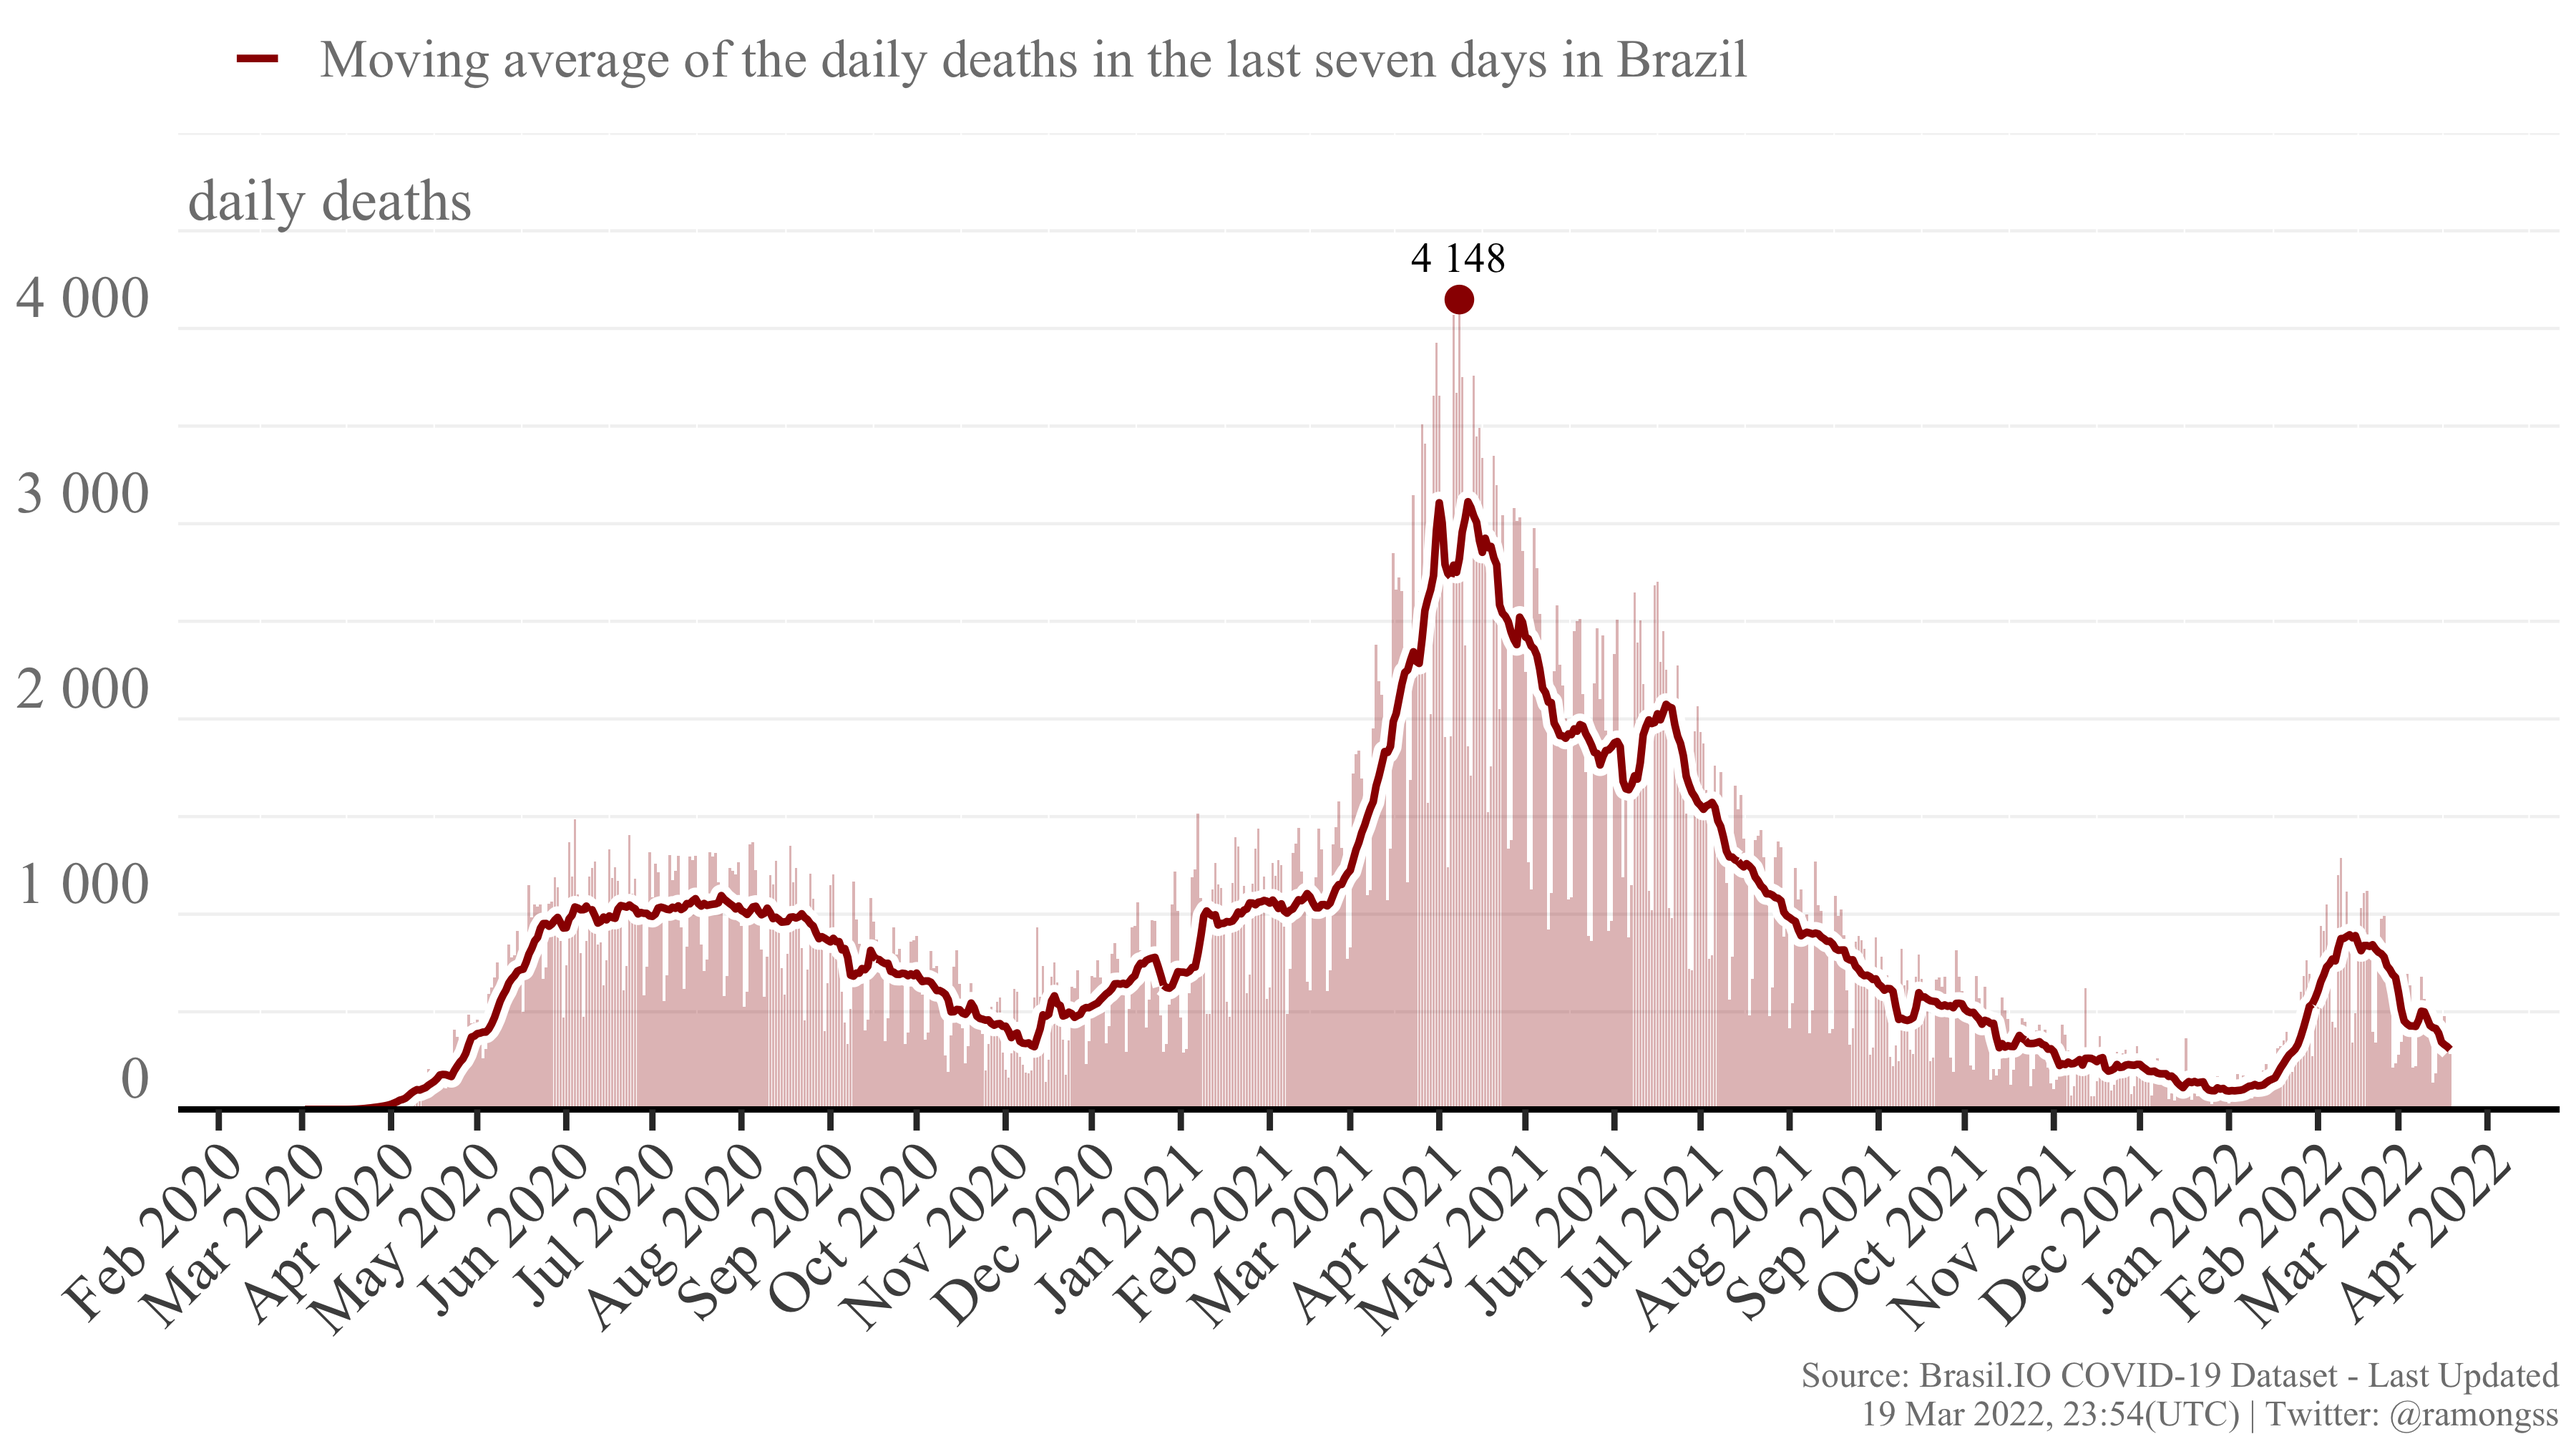
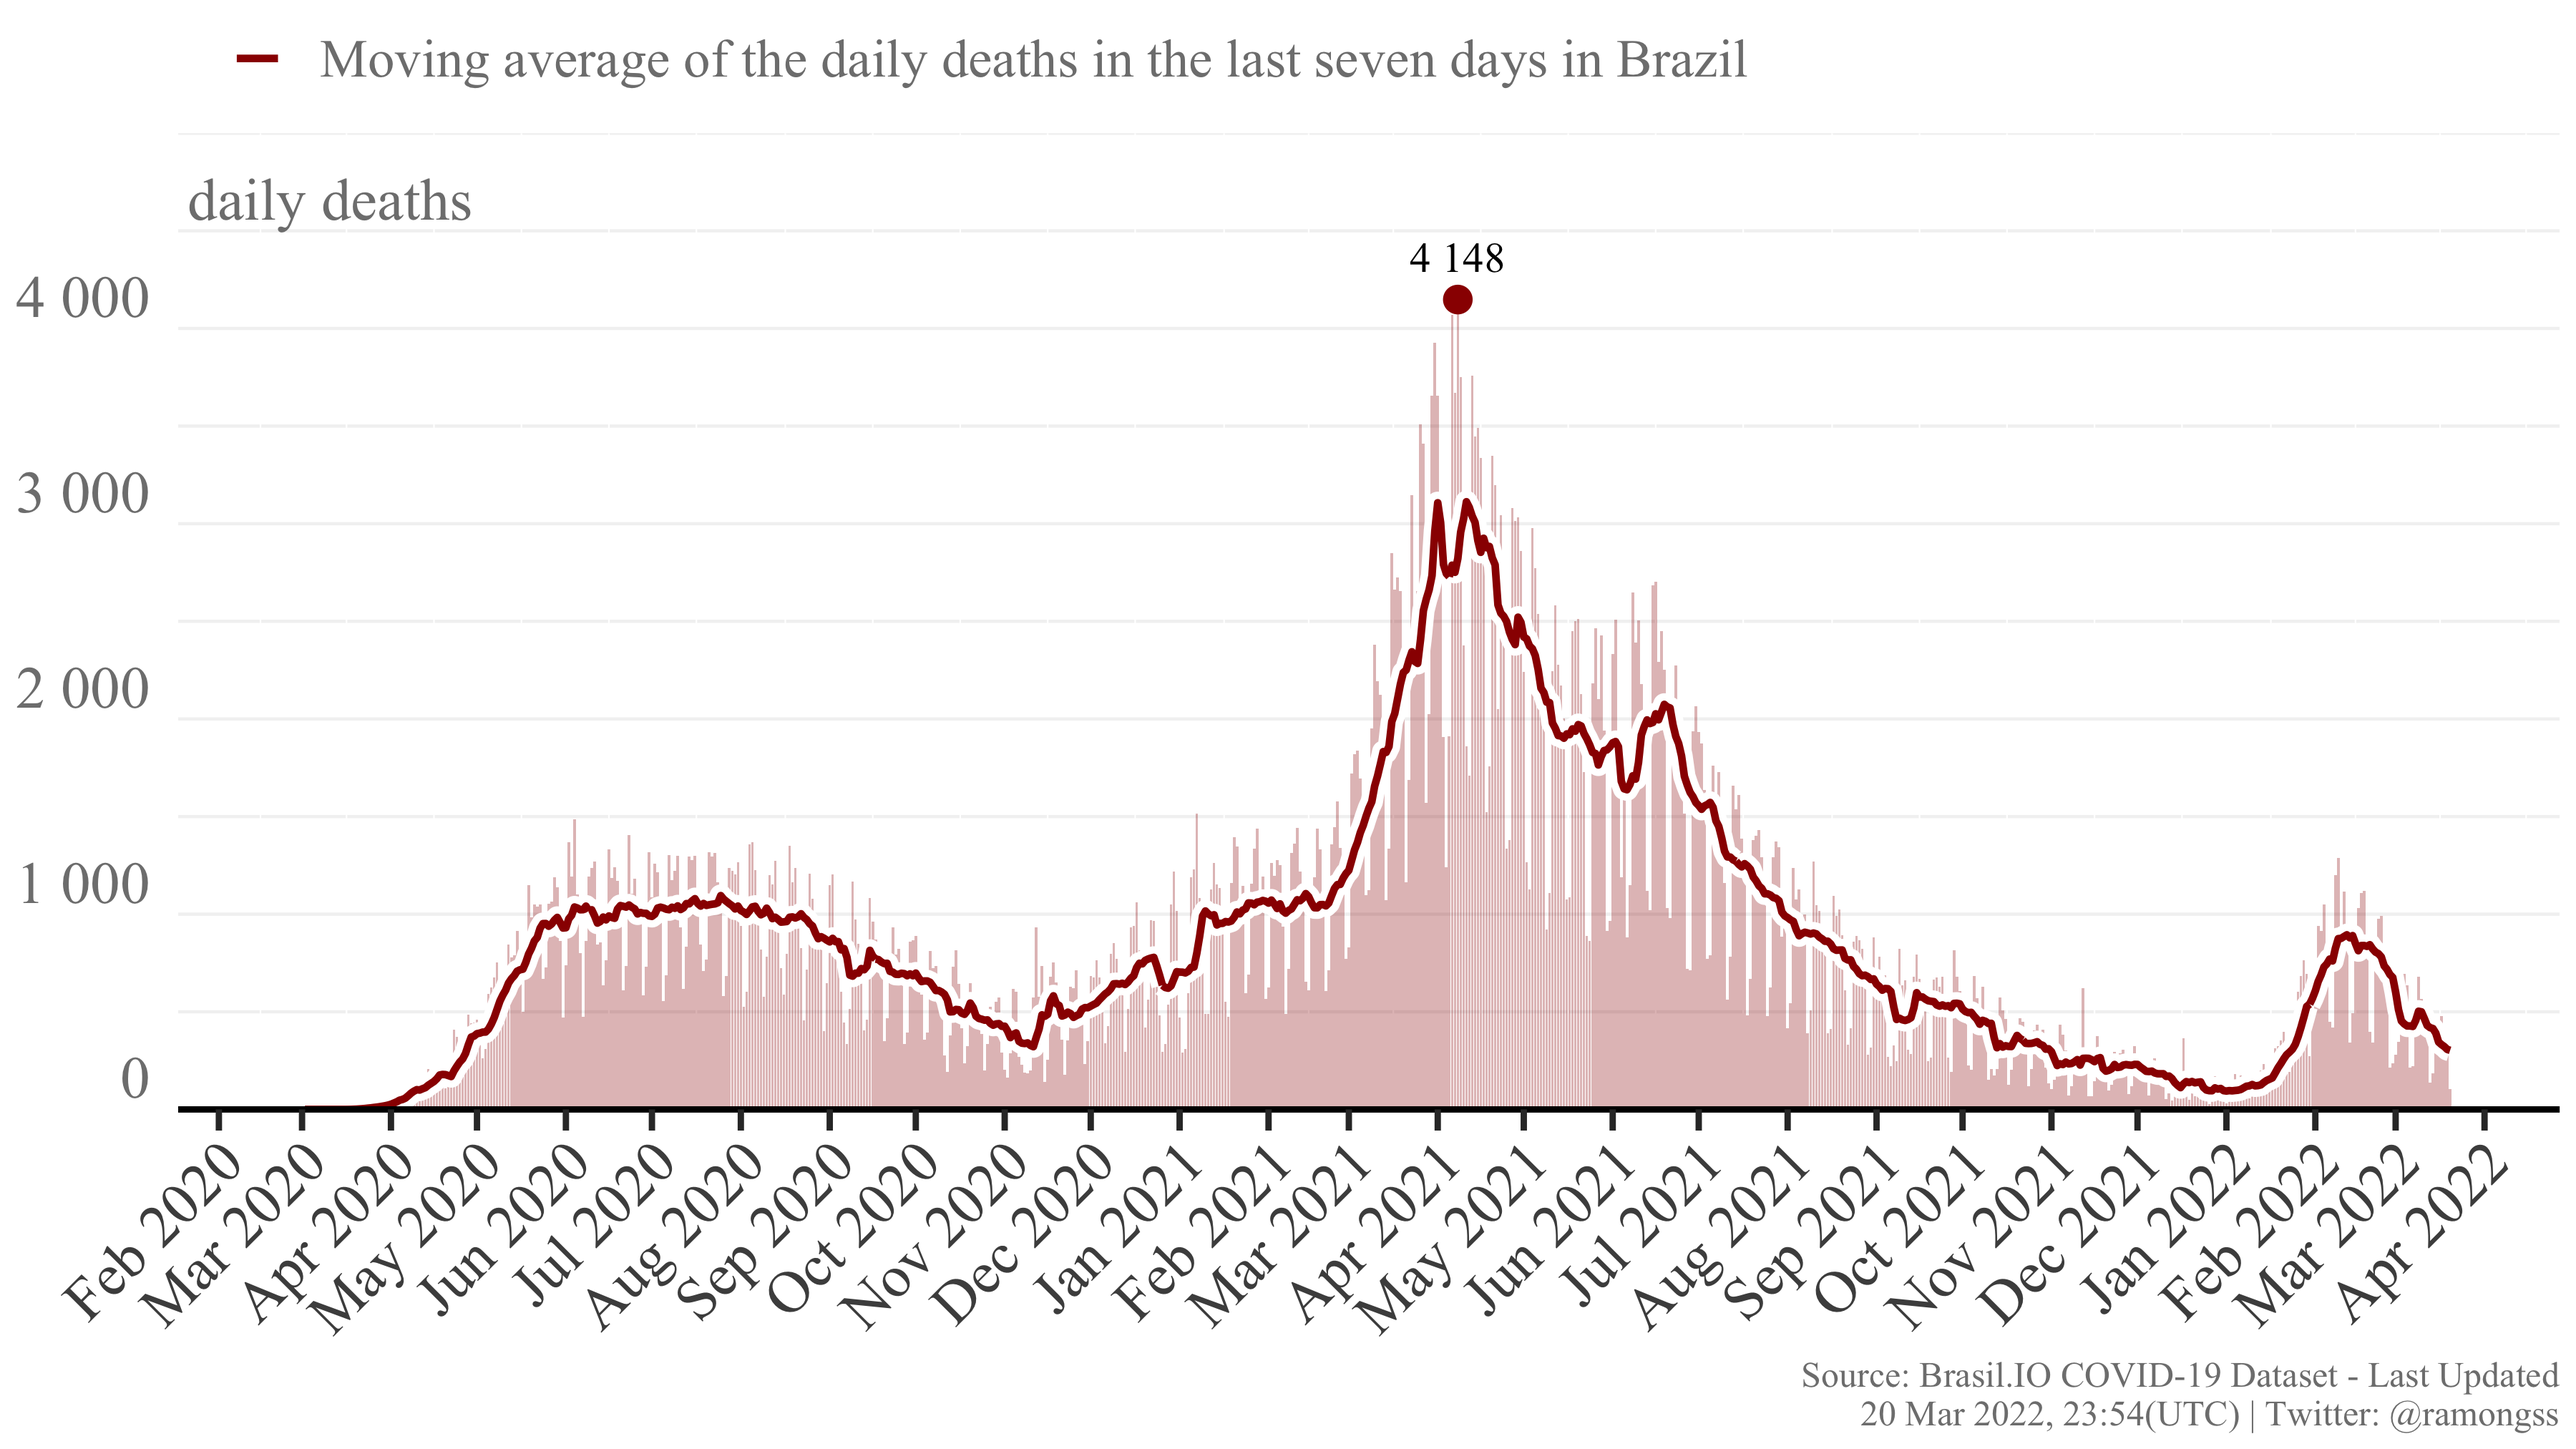
Re-build README.Rmd

diff --git a/README.md b/README.md
@@ -27,8 +27,8 @@ download_brasilio_table <- function(dataset = "covid19", table_name){
 
 ## COVID-19 Confirmed cases
 
-Currently, Brazil has a total of **29,624,435** confirmed cases at **19
-Mar, 2022**, with **37,314** new confirmed cases. The daily maximum
+Currently, Brazil has a total of **29,637,813** confirmed cases at **20
+Mar, 2022**, with **12,500** new confirmed cases. The daily maximum
 incidence was **285,451** confirmed cases at **03 Feb, 2022**. Here
 follows the Figure showing the confirmed case incidence as the bars, and
 the line as the moving average of the last 7 days.
@@ -37,8 +37,8 @@ the line as the moving average of the last 7 days.
 
 ## COVID-19 Deaths
 
-Currently, Brazil has a total of **657,389** deaths at **19 Mar, 2022**,
-with **283** new deaths. The daily maximum deaths incidence was
+Currently, Brazil has a total of **657,495** deaths at **20 Mar, 2022**,
+with **104** new deaths. The daily maximum deaths incidence was
 **4,148** deaths at **08 Apr, 2021**. Here follows the Figure showing
 the deaths incidence as the bars, and the line as the moving average of
 the last 7 days.
@@ -49,4 +49,4 @@ the last 7 days.
 
 This page is daily updated automatically using Github Actions.
 
-*Last update: 19 Mar 2022, 23:54 (UTC).*
+*Last update: 20 Mar 2022, 23:54 (UTC).*
